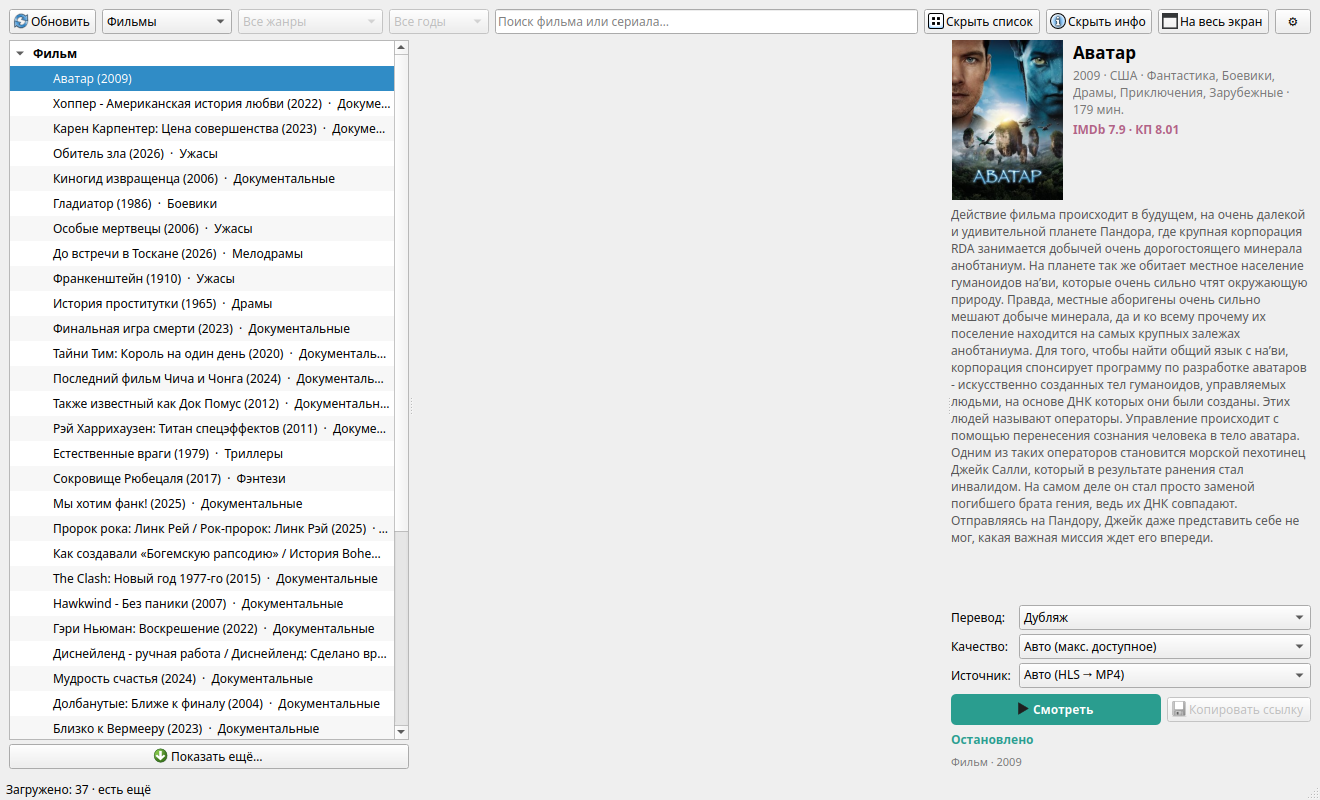
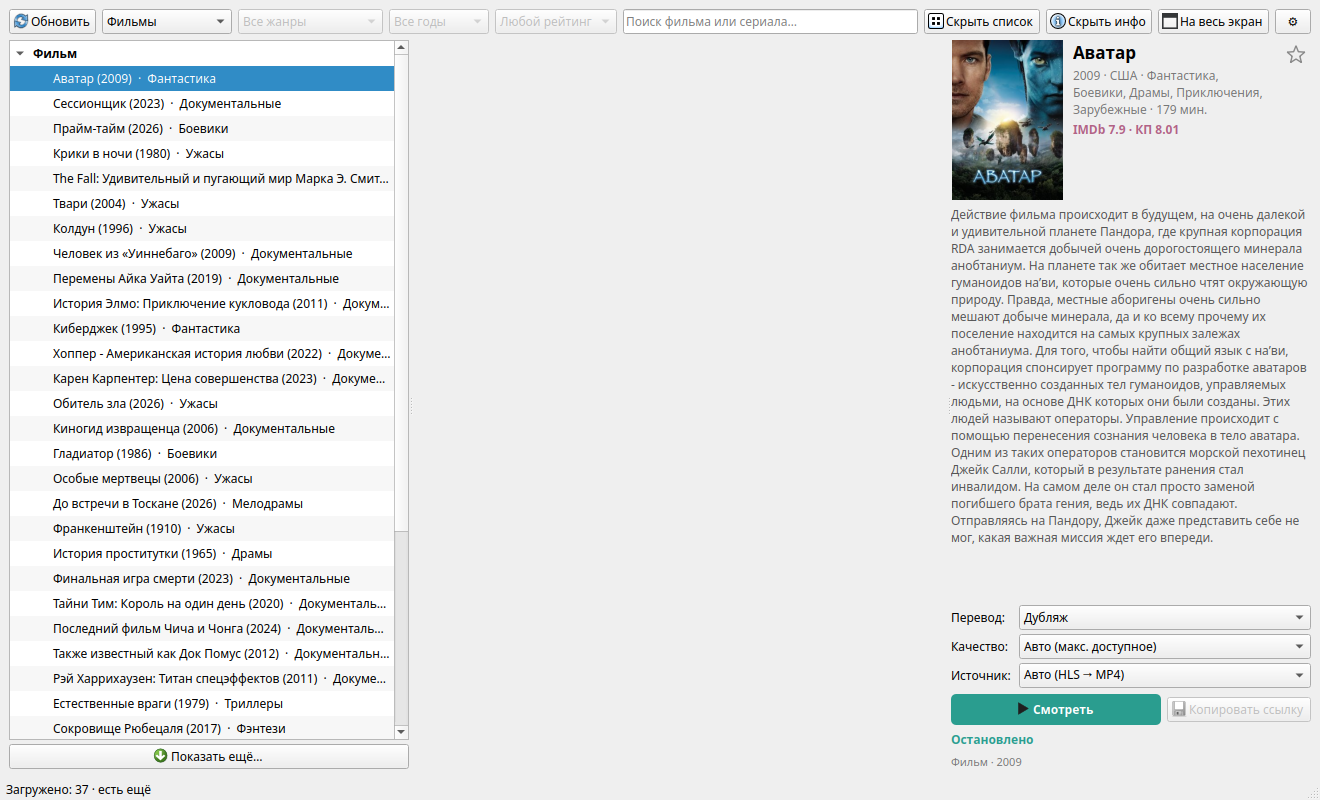
фильтр по рейтингу

Changed region(s): [[0.0311, 0.0938, 0.2795, 0.9375], [0.8076, 0.0938, 0.9629, 0.1562], [0.3727, 0.0, 0.5902, 0.0312]]

diff --git a/hdrezka_gui.py b/hdrezka_gui.py
@@ -314,7 +314,7 @@ class CatalogWorker(QThread):
 
     def __init__(
         self, client, section: str, page: int, genre: str,
-        year: str, token: int, parent=None,
+        year: str, rating: str, token: int, parent=None,
     ):
         super().__init__(parent)
         self.client = client
@@ -322,6 +322,7 @@ class CatalogWorker(QThread):
         self.page = page
         self.genre = genre
         self.year = year
+        self.rating = rating
         self.token = token
 
     def run(self):
@@ -332,7 +333,8 @@ class CatalogWorker(QThread):
                 genres = []
             else:
                 items, has_more, genres = self.client.fetch_catalog(
-                    self.section, self.page, self.genre, self.year
+                    self.section, self.page, self.genre, self.year,
+                    self.rating,
                 )
             self.done.emit(
                 self.token,
@@ -343,6 +345,7 @@ class CatalogWorker(QThread):
                     "section": self.section,
                     "genre": self.genre,
                     "year": self.year,
+                    "rating": self.rating,
                     "genres": genres,
                     "error": "",
                 },
@@ -358,6 +361,7 @@ class CatalogWorker(QThread):
                     "section": self.section,
                     "genre": self.genre,
                     "year": self.year,
+                    "rating": self.rating,
                     "genres": [],
                     "error": str(e),
                 },
@@ -1854,6 +1858,7 @@ class MainWindow(QMainWindow):
         self._catalog_section = "home"
         self._catalog_genre = ""
         self._catalog_year = ""
+        self._catalog_rating = ""
         self._catalog_page = 1
         self._has_more = False
         self._search_active = False
@@ -2193,6 +2198,17 @@ class MainWindow(QMainWindow):
         )
         self.year_combo.setEnabled(False)
 
+        self.rating_combo = QComboBox()
+        self.rating_combo.addItem("Любой рейтинг", "")
+        for value in ("5.0", "6.0", "7.0", "7.5", "8.0", "8.5", "9.0"):
+            self.rating_combo.addItem(f"от {value}", value)
+        self.rating_combo.setMinimumWidth(110)
+        self.rating_combo.setToolTip(
+            "Фильтр по рейтингу HDrezka. Работает в подборках «Лучшее»; "
+            "для «Новинок», «ТВ-шоу» и «Избранного» недоступен."
+        )
+        self.rating_combo.setEnabled(False)
+
         self.search = QLineEdit()
         self.search.setPlaceholderText("Поиск фильма или сериала…")
         self.search.setClearButtonEnabled(True)
@@ -2250,6 +2266,7 @@ class MainWindow(QMainWindow):
         row.addWidget(self.catalog_combo)
         row.addWidget(self.genre_combo)
         row.addWidget(self.year_combo)
+        row.addWidget(self.rating_combo)
         row.addWidget(self.search, 1)
         row.addWidget(self.list_btn)
         row.addWidget(self.info_btn)
@@ -2463,6 +2480,9 @@ class MainWindow(QMainWindow):
         )
         self.year_combo.currentIndexChanged.connect(
             self._on_year_changed
+        )
+        self.rating_combo.currentIndexChanged.connect(
+            self._on_rating_changed
         )
         self.translation_combo.currentIndexChanged.connect(
             self._on_translation_changed
@@ -3253,6 +3273,7 @@ class MainWindow(QMainWindow):
         self.more_btn.setEnabled(False)
         self.genre_combo.setEnabled(False)
         self.year_combo.setEnabled(False)
+        self.rating_combo.setEnabled(False)
         if start_meta and not missing:
             self._populate_list(items, select_url=self._current_url or None)
         else:
@@ -3353,6 +3374,10 @@ class MainWindow(QMainWindow):
             self._catalog_year
             if section not in ("home", "show") else ""
         )
+        rating = (
+            self._catalog_rating
+            if section not in ("home", "show", "favorites") else ""
+        )
         page = 1 if reset else self._catalog_page + 1
         self._catalog_token += 1
         token = self._catalog_token
@@ -3362,7 +3387,7 @@ class MainWindow(QMainWindow):
             "Загрузка каталога…" if reset else f"Загрузка страницы {page}…"
         )
         worker = CatalogWorker(
-            self.client, section, page, genre, year, token, self
+            self.client, section, page, genre, year, rating, token, self
         )
         self._catalog_worker = worker
         self._track_worker(worker)
@@ -3392,12 +3417,15 @@ class MainWindow(QMainWindow):
         section = str((result or {}).get("section") or "home")
         genre = str((result or {}).get("genre") or "")
         year = str((result or {}).get("year") or "")
+        rating = str((result or {}).get("rating") or "")
         genres = (result or {}).get("genres") or []
         if page <= 1:
             self._catalog_genre = genre
             self._catalog_year = year
+            self._catalog_rating = rating
             self._update_genres(genres, section)
             self._update_year_enabled(section)
+            self._update_rating_enabled(section)
 
         if page <= 1:
             new_items = list(items)
@@ -3414,6 +3442,7 @@ class MainWindow(QMainWindow):
             self.catalog_items = new_items
             self.genre_combo.setEnabled(False)
             self.year_combo.setEnabled(False)
+            self.rating_combo.setEnabled(False)
             self.more_btn.setVisible(False)
             if section == "home" and page == 1:
                 self._save_cache()
@@ -3488,6 +3517,29 @@ class MainWindow(QMainWindow):
         self.catalog_items = []
         self.refresh_catalog(reset=True)
 
+    def _update_rating_enabled(self, section: str):
+        enabled = (
+            section not in ("home", "show", "favorites")
+            and not self.search.text().strip()
+        )
+        self._suppress_ui = True
+        self.rating_combo.setEnabled(enabled)
+        if not enabled and self.rating_combo.currentIndex() != 0:
+            self.rating_combo.setCurrentIndex(0)
+            self._catalog_rating = ""
+        self._suppress_ui = False
+
+    def _on_rating_changed(self):
+        if self._suppress_ui:
+            return
+        self._catalog_rating = str(
+            self.rating_combo.currentData() or ""
+        )
+        self._catalog_page = 1
+        self._has_more = False
+        self.catalog_items = []
+        self.refresh_catalog(reset=True)
+
     def load_more(self):
         if not self._has_more:
             return
@@ -3508,6 +3560,7 @@ class MainWindow(QMainWindow):
         self._search_token += 1          # отменяем возможный старый поиск
         self._catalog_genre = ""
         self._catalog_year = ""
+        self._catalog_rating = ""
         self._catalog_page = 1
         self._has_more = False
         self.catalog_items = []
@@ -3517,6 +3570,8 @@ class MainWindow(QMainWindow):
         self.genre_combo.setEnabled(False)
         self.year_combo.setCurrentIndex(0)
         self.year_combo.setEnabled(False)
+        self.rating_combo.setCurrentIndex(0)
+        self.rating_combo.setEnabled(False)
         self._suppress_ui = False
         self.refresh_catalog(reset=True)
 
@@ -3535,11 +3590,13 @@ class MainWindow(QMainWindow):
                 and self.genre_combo.count() > 1
             )
             self._update_year_enabled(section)
+            self._update_rating_enabled(section)
             if section == "favorites":
                 self.more_btn.setVisible(False)
             return
         self.genre_combo.setEnabled(False)
         self.year_combo.setEnabled(False)
+        self.rating_combo.setEnabled(False)
         self.more_btn.setVisible(False)
         self._search_timer.start()
 
@@ -3574,6 +3631,7 @@ class MainWindow(QMainWindow):
         self._populate_list(items, select_url="")
         self.genre_combo.setEnabled(False)
         self.year_combo.setEnabled(False)
+        self.rating_combo.setEnabled(False)
         self.more_btn.setVisible(False)
         if items:
             self.statusBar().showMessage(
@@ -3609,6 +3667,13 @@ class MainWindow(QMainWindow):
                     label = f"{label} ({item.year})"
                 if item.genres:
                     label = f"{label}  ·  {item.genres}"
+                rating_text = (item.rating or "").strip()
+                try:
+                    float(rating_text)
+                except (TypeError, ValueError):
+                    rating_text = ""
+                if rating_text:
+                    label = f"{label}  ·  ★ {rating_text}"
                 node = QTreeWidgetItem([label])
                 node.setData(
                     0, Qt.ItemDataRole.UserRole, item.to_dict()

diff --git a/hdrezka_core.py b/hdrezka_core.py
@@ -354,6 +354,14 @@ def parse_catalog_html(text: str, base: str) -> List[SearchItem]:
         if info_m:
             info = clean_text(info_m.group(1))
 
+        rating = ""
+        rate_m = re.search(
+            r'b-category-bestrating[^>]*>\s*\(?([\d.]+)\)?',
+            chunk,
+        )
+        if rate_m:
+            rating = rate_m.group(1)
+
         kind = kind_from_url(url)
         if not kind or kind == "Другое":
             cat_m = re.search(r'<span class="cat\s+(\w+)"', chunk)
@@ -371,6 +379,7 @@ def parse_catalog_html(text: str, base: str) -> List[SearchItem]:
                 poster=poster,
                 info=info,
                 genres=genres_from_misc(misc),
+                rating=rating,
             )
         )
     return items
@@ -1053,7 +1062,7 @@ class HDrezkaClient:
 
     def fetch_catalog(
         self, section: str, page: int = 1, genre: str = "",
-        year: str = "",
+        year: str = "", rating_min: float = 0.0,
     ) -> Tuple[List[SearchItem], bool, List[Tuple[str, str]]]:
         section = (section or "films").strip("/")
         path_section = SECTION_PATHS.get(section, section)
@@ -1063,13 +1072,18 @@ class HDrezkaClient:
             )
         genre = (genre or "").strip("/")
         year = (year or "").strip("/")
-        if year:
-            # Год на сайте есть только в подборках «Лучшее»:
+        try:
+            min_rating = float(rating_min or 0)
+        except (TypeError, ValueError):
+            min_rating = 0.0
+        if year or min_rating > 0:
+            # Год и рейтинг есть только в подборках «Лучшее»:
             # /films/best/2024/, /films/best/action/2024/.
             base = f"/{path_section}/best/"
             if genre:
                 base += f"{genre}/"
-            base += f"{year}/"
+            if year:
+                base += f"{year}/"
         else:
             base = f"/{path_section}/"
             if genre:
@@ -1082,10 +1096,32 @@ class HDrezkaClient:
         has_more = bool(
             re.search(rf'href="[^"]*page/{page + 1}/"', resp.text)
         )
+        if min_rating > 0:
+            ratings = []
+            for item in items:
+                try:
+                    ratings.append(float(item.rating))
+                except (TypeError, ValueError):
+                    continue
+            items = [
+                item for item in items
+                if self._rating_value(item.rating) >= min_rating
+            ]
+            # Страницы «Лучшее» отсортированы по рейтингу вниз.
+            # Если последний рейтинг уже ниже порога, дальше совпадений нет.
+            if ratings and min(ratings) < min_rating:
+                has_more = False
         genres = (
             parse_genres(resp.text, section) if page <= 1 else []
         )
         return items, has_more, genres
+
+    @staticmethod
+    def _rating_value(value) -> float:
+        try:
+            return float(value)
+        except (TypeError, ValueError):
+            return 0.0
 
     def search(self, query: str) -> List[SearchItem]:
         query = (query or "").strip()

diff --git a/README.md b/README.md
@@ -12,6 +12,7 @@
 - ⭐ локальное «Избранное»: первый пункт списка разделов, звёздочка
   в правом верхнем углу карточки;
 - 📅 фильтр по году выпуска (подборки «Лучшее» на сайте);
+- ⭐ фильтр по рейтингу HDrezka: от 5.0 до 9.0 (подборки «Лучшее»);
 - ⬇ кнопка «Показать ещё…» в конце списка для следующей страницы;
 - 🔍 поиск по названию фильма или сериала (полная выдача, а не только
   5 подсказок);
@@ -69,8 +70,10 @@ python hdrezka_gui.py
 1. Выберите раздел: «Новинки», «Фильмы», «Сериалы», «Мультфильмы», «Аниме»
    или «ТВ-шоу». Первым пунктом идёт локальное **«Избранное»**, но при
    запуске по умолчанию открываются «Новинки».
-2. При необходимости выберите жанр и год выпуска. Год использует подборки
-   сайта «Лучшее за год»; для «Новинок» и «ТВ-шоу» он недоступен.
+2. При необходимости выберите жанр, год и минимальный рейтинг. Год и
+   рейтинг используют подборки сайта «Лучшее»; рейтинг — внутренний
+   рейтинг HDrezka. Для «Новинок», «ТВ-шоу» и «Избранного» они недоступны.
+   При включении рейтинга список сортируется как «Лучшее».
 3. Сайт отдаёт по 36 тайтлов на страницу. Внизу списка есть кнопка
    **«Показать ещё…»** — она догружает следующую страницу.
 4. Найдите нужный тайтл через поиск или в списке.
